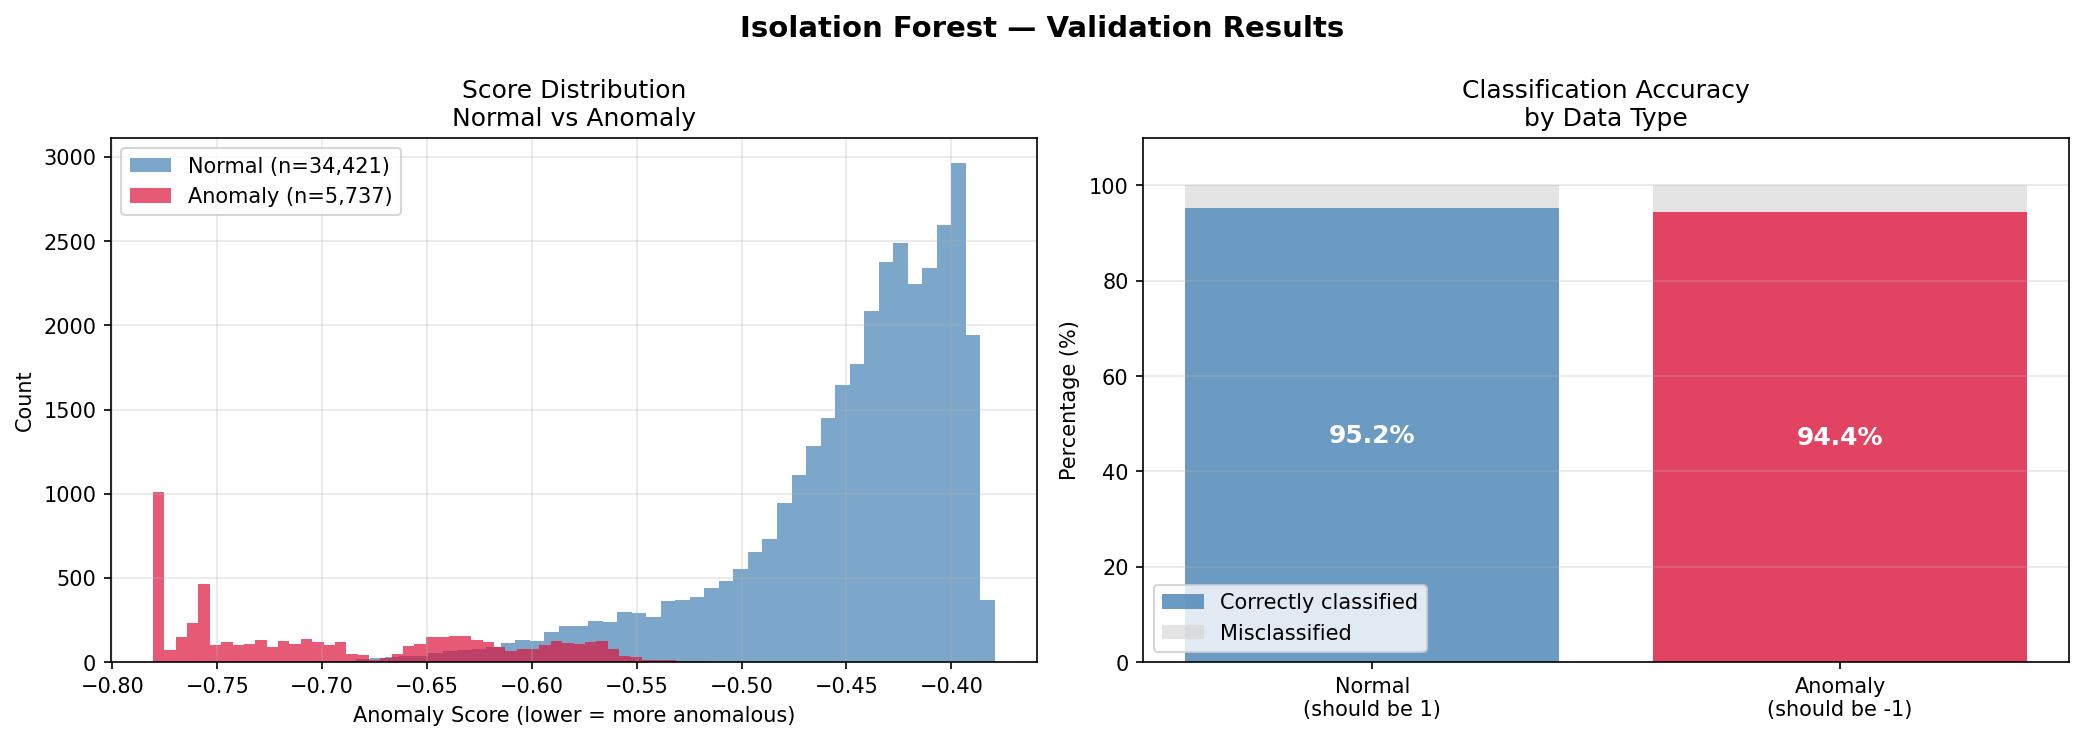
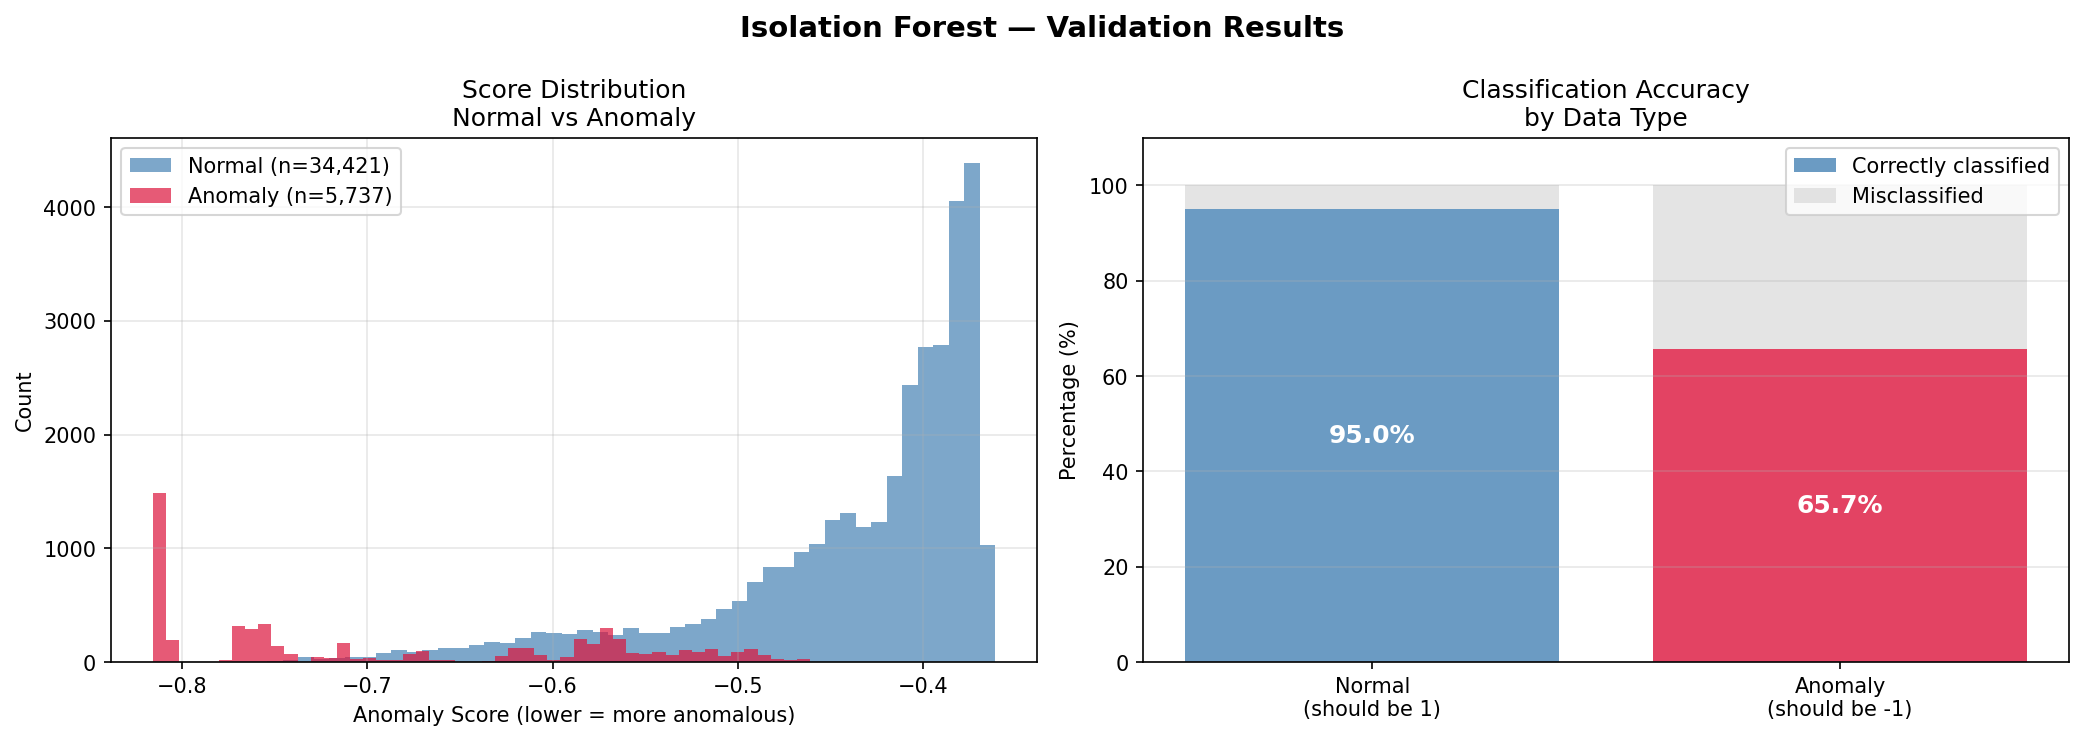
Updated ML model validation and retraining script

diff --git a/python-ml/retrain_stable_model.py b/python-ml/retrain_stable_model.py
@@ -1,0 +1,144 @@
+"""
+Retrain Isolation Forest — 5 Stable Features
+=============================================
+Drops features that drift with traffic rate or container age.
+Keeps only features stable regardless of Podinfo traffic level.
+
+STABLE FEATURES (5):
+  go_goroutines                          — always 9-18 when healthy
+  process_open_fds                       — always 9-11 when healthy
+  heap_utilization_ratio                 — always ~1.20 when healthy
+  avg_request_duration_sec               — near 0 when healthy
+  http_request_duration_seconds_sum_rate — low when healthy
+
+DROPPED (too dependent on traffic load):
+  http_requests_total_rate_per_sec       — varies with traffic generator
+  http_request_duration_seconds_count_rate — same
+  process_cpu_seconds_total_rate_per_sec — varies
+  go_memstats_alloc_bytes                — low on fresh container
+  go_memstats_heap_inuse_bytes           — low on fresh container
+
+INPUT:  processed_data/features_train_normal.csv   (your original 34k samples)
+OUTPUT: models/isolation_forest.pkl
+        models/scaler.pkl
+        models/model_metadata.txt
+"""
+
+import pandas as pd
+import numpy as np
+from sklearn.ensemble import IsolationForest
+from sklearn.preprocessing import StandardScaler
+import joblib
+from pathlib import Path
+from datetime import datetime
+
+# ─── CONFIG ────────────────────────────────────────────────────────────────
+
+INPUT_FILE = 'processed_data/features_train_normal.csv'
+MODEL_DIR  = Path('models/')
+
+STABLE_FEATURES = [
+    'go_goroutines',
+    'process_open_fds',
+    'heap_utilization_ratio',
+    'avg_request_duration_sec',
+    'http_request_duration_seconds_sum_rate',
+]
+
+CONTAMINATION  = 0.05
+N_ESTIMATORS   = 100
+MAX_SAMPLES    = 256
+RANDOM_STATE   = 42
+
+# ─── MAIN ──────────────────────────────────────────────────────────────────
+
+def main():
+    print('=' * 55)
+    print('  Retrain Isolation Forest — 5 Stable Features')
+    print('=' * 55)
+
+    # Load
+    print(f'\nLoading {INPUT_FILE}...')
+    df = pd.read_csv(INPUT_FILE)
+    print(f'  {len(df):,} rows loaded')
+
+    X = df[STABLE_FEATURES].replace([np.inf, -np.inf], np.nan).fillna(0)
+    print(f'  {len(X.columns)} features: {list(X.columns)}')
+
+    # Scale
+    scaler = StandardScaler()
+    X_scaled = scaler.fit_transform(X)
+
+    # Train
+    print('\nTraining Isolation Forest...')
+    model = IsolationForest(
+        contamination=CONTAMINATION,
+        n_estimators=N_ESTIMATORS,
+        max_samples=MAX_SAMPLES,
+        random_state=RANDOM_STATE,
+        n_jobs=-1,
+    )
+    model.fit(X_scaled)
+
+    # Self-check
+    scores = model.score_samples(X_scaled)
+    preds  = model.predict(X_scaled)
+    normal_pct = (preds == 1).mean() * 100
+    print(f'\nSelf-check:')
+    print(f'  Normal:  {(preds==1).sum():,} ({normal_pct:.1f}%)')
+    print(f'  Anomaly: {(preds==-1).sum():,} ({100-normal_pct:.1f}%)')
+    print(f'  Score range: [{scores.min():.4f}, {scores.max():.4f}]')
+    print(f'  Mean normal score: {scores.mean():.4f}')
+
+    # Backup old models
+    for fname in ['isolation_forest.pkl', 'scaler.pkl']:
+        old = MODEL_DIR / fname
+        bak = MODEL_DIR / fname.replace('.pkl', '_backup.pkl')
+        if old.exists():
+            if bak.exists():
+                bak.unlink()
+            old.rename(bak)
+            print(f'  Backed up {fname}')
+
+    # Save
+    MODEL_DIR.mkdir(parents=True, exist_ok=True)
+    joblib.dump(model,  MODEL_DIR / 'isolation_forest.pkl')
+    joblib.dump(scaler, MODEL_DIR / 'scaler.pkl')
+
+    # Metadata
+    with open(MODEL_DIR / 'model_metadata.txt', 'w') as f:
+        f.write('ISOLATION FOREST MODEL METADATA\n')
+        f.write('=' * 50 + '\n\n')
+        f.write(f'Trained: {datetime.now().strftime("%Y-%m-%d %H:%M:%S")}\n\n')
+        f.write('Config:\n')
+        f.write(f'  contamination = {CONTAMINATION}\n')
+        f.write(f'  n_estimators  = {N_ESTIMATORS}\n')
+        f.write(f'  max_samples   = {MAX_SAMPLES}\n\n')
+        f.write(f'Training data: {len(X):,} normal samples\n\n')
+        f.write(f'Features ({len(STABLE_FEATURES)}):\n')
+        for col in STABLE_FEATURES:
+            f.write(f'  - {col}\n')
+        f.write('\nDropped features (traffic/container-age sensitive):\n')
+        for col in ['http_requests_total_rate_per_sec',
+                    'http_request_duration_seconds_count_rate',
+                    'process_cpu_seconds_total_rate_per_sec',
+                    'go_memstats_alloc_bytes',
+                    'go_memstats_heap_inuse_bytes']:
+            f.write(f'  - {col}\n')
+        f.write(f'\nMean normal score: {scores.mean():.4f}\n')
+        f.write('Anomaly threshold: -0.50\n')
+
+    print(f'\n  ✓ Model saved:    {MODEL_DIR}/isolation_forest.pkl')
+    print(f'  ✓ Scaler saved:   {MODEL_DIR}/scaler.pkl')
+    print(f'  ✓ Metadata saved: {MODEL_DIR}/model_metadata.txt')
+
+    print('\n' + '=' * 55)
+    print('  NEXT STEPS:')
+    print('  1. Restart Python ML service: python ml_service.py')
+    print('  2. Hard-refresh the dashboard: Ctrl+Shift+R')
+    print('  3. Fresh Podinfo should now score ~-0.45 (NORMAL)')
+    print('=' * 55 + '\n')
+
+
+if __name__ == '__main__':
+    main()